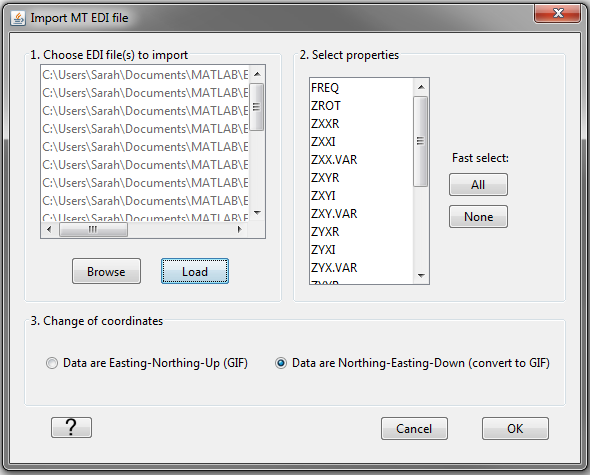
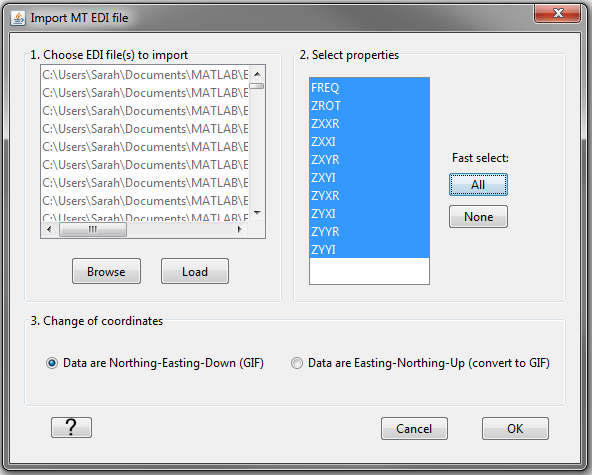
Update sign conventions

diff --git a/content/signConvention.rst b/content/signConvention.rst
@@ -282,13 +282,13 @@ MT data
 
 The NSEM GIF codes are formulated to use a :math:`-i\omega t` convention for the time-dependence. However, this may not match the convention used by data loaded into GIFtools from other sources. MT data loaded from EDI files generally uses the `MT/EMAP data interchange standard <https://seg.org/Portals/0/SEG/News%20and%20Resources/Technical%20Standards/seg_mt_emap_1987.pdf>`__ , which is :math:`+i\omega t`. If the convention used for the data does not match that of the code, it is unlikely that the inversion will be able to fit the data and return meaningful results.
 
-We can determine the convention used by the data by examining the data. If data are represented using the :math:`\boldsymbol{+i \omega t}` convention and are in a right-handed coordinate system, then we expect:
+We can determine the convention used by the data by examining the data. If data are represented using the :math:`\boldsymbol{+i \omega t}` convention and are in a **right-handed coordinate system**, then we expect:
 
     - at background locations: :math:`Z_{xy} \sim \dfrac{i \omega \mu}{k} \;\;\; \textrm{and} \;\;\; Z_{yx} \sim \frac{- i \omega \mu}{k} \;\;\; \textrm{where} \;\;\; k = \sqrt{i\omega \mu \sigma}` 
     - :math:`Re[Z_{xy}] > 0`, :math:`\; Im[Z_{xy}] > 0` and :math:`\phi_{xy} \in [0^o, \; 90^o]` (:math:`\sim 45^o` for a half-space)
     - :math:`Re[Z_{yx}] < 0`, :math:`\; Im[Z_{yx}] < 0` and :math:`\phi_{yx} \in [-90^o, \; -180^o]` (:math:`\sim -135^o` for a half-space)
 
-If data are represented using the :math:`\boldsymbol{-i \omega t}` convention (GIFtools) and are in a right-handed coordinate system (GIFtools), then for these data we expect:
+If data are represented using the :math:`\boldsymbol{-i \omega t}` convention (GIFtools) and are in a **right-handed coordinate system** (GIFtools), then for these data we expect:
 
     - at background locations: :math:`Z_{xy} \sim \dfrac{-i \omega \mu}{k} \;\;\; \textrm{and} \;\;\; Z_{yx} \sim \frac{ i \omega \mu}{k} \;\;\; \textrm{where} \;\;\; k = \sqrt{-i\omega \mu \sigma}`
     - :math:`Re[Z_{xy}] > 0`, :math:`\; Im[Z_{xy}] < 0` and :math:`\phi_{xy} \in [0^o, \; -90^o]` (:math:`\sim -45^o` for a half-space)
@@ -298,6 +298,7 @@ As we can see, to switch from one convention to another we must:
 
     - Multiply the imaginary components of all impedance tensor elements by -1
     - Multiply the phase values for all elements of the impedance tensor by -1
+
 
 **Data Convention**
 

diff --git a/content/objectFunctionality/data/mt/dataType.rst b/content/objectFunctionality/data/mt/dataType.rst
@@ -75,3 +75,39 @@ The E3DMT version 2 code requires an `observations <https://e3dmt.readthedocs.io
 
 
 
+Export as EDI
+^^^^^^^^^^^^^
+
+GIFtools can export impedance tensor or apparent resistivity data as EDI formatted files. This functionality is accessed through
+
+**[data type] data** |rarr| **Export** |rarr| **Export as EDI files**
+
+
+The user then chooses a directory for the EDI files and fills out the following fields:
+
+
+    .. figure:: ../../../../images/object/data/nsem/exportEDI.png
+        :align: center
+        :width: 400
+
+
+    - **Hemisphere:** Whether the survey is in the Northern or Southern hemisphere
+
+    - **UTM Zone:** Set the UTM zone
+
+    - **Root Name:** Root name for EDI files. Default is "STN"
+
+    - **Export Coordinates:** GIFtools uses a convention for impedance tensor elements and apparent resistivities such that X = Northing, Y = Easting and Z = Down. The user is encouraged to keep this convention as it is standard for MT. However, the user may chance the convention for the data if desired.
+
+
+.. important::
+
+    - GIFtools converts impedance data from a :math:`-i\omega t` (GIF standard) convention to a :math:`+i\omega t` (EMAP standard) convention automatically upon output.
+    - GIFtools converted impedance tensor data from V/A (GIF) to units mV/km/nT (EMAP standard).
+    - GIFtools will the data point locations from WGS84 UTM to (LONG, LAT).
+
+
+
+
+
+

diff --git a/content/basicFunctionality/import/data.rst b/content/basicFunctionality/import/data.rst
@@ -467,7 +467,7 @@ Once selected, the user must do the following:
     1) Use *Browse* to find the EDI file(s) which they would like to important data from
     2) Select *Load* to temporarily load all the data
     3) Select the properties (data columns) which they would like in their final data object (IMPdata or APPdata)
-    4) Choose whether or not the data must be transferred from Northing-Easting-Down to Easting-Northing-Up (GIF)
+    4) Choose whether or not the data must be transferred to Northing-Easting-Down (GIF)
     5) Select *OK*
 
 
